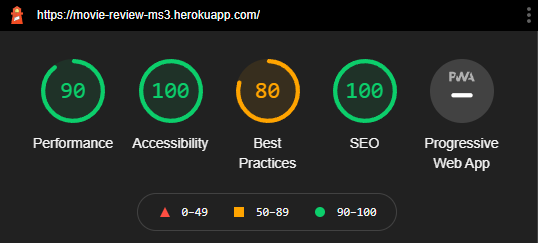
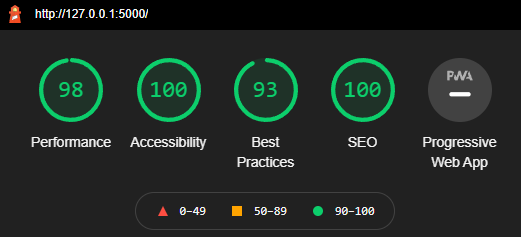
jQuery updated due to vulnerability issues addressed by Lighthouse report.

diff --git a/flixreviews/templates/layout.html b/flixreviews/templates/layout.html
@@ -57,8 +57,8 @@
 		<footer class="page-footer">
 			<div class="text-center text-white py-3"><small>Ben Yates | Code Institute</small></div>
 		</footer>
-		<script src="https://code.jquery.com/jquery-3.3.1.slim.min.js"
-			integrity="sha384-q8i/X+965DzO0rT7abK41JStQIAqVgRVzpbzo5smXKp4YfRvH+8abtTE1Pi6jizo" crossorigin="anonymous"></script>
+		<script src="https://code.jquery.com/jquery-3.6.0.slim.min.js"
+		integrity="sha256-u7e5khyithlIdTpu22PHhENmPcRdFiHRjhAuHcs05RI=" crossorigin="anonymous"></script>
 		<script src="https://cdnjs.cloudflare.com/ajax/libs/popper.js/1.14.7/umd/popper.min.js"
 			integrity="sha384-UO2eT0CpHqdSJQ6hJty5KVphtPhzWj9WO1clHTMGa3JDZwrnQq4sF86dIHNDz0W1" crossorigin="anonymous"></script>
 		<script src="https://stackpath.bootstrapcdn.com/bootstrap/4.3.1/js/bootstrap.min.js"

diff --git a/flixreviews/templates/create_review.html b/flixreviews/templates/create_review.html
@@ -98,6 +98,8 @@
 		</div>
 	</div>
 </div>
-<script src="https://code.jquery.com/jquery-3.3.1.slim.min.js" integrity="sha384-q8i/X+965DzO0rT7abK41JStQIAqVgRVzpbzo5smXKp4YfRvH+8abtTE1Pi6jizo" crossorigin="anonymous"></script>
+<script
+  src="https://code.jquery.com/jquery-3.6.0.slim.min.js"
+  integrity="sha256-u7e5khyithlIdTpu22PHhENmPcRdFiHRjhAuHcs05RI=" crossorigin="anonymous"></script>
 <script src="/static/js/create_review.js"></script>
 {% endblock content %}

diff --git a/README.md b/README.md
@@ -51,12 +51,12 @@
                 <ol type="a">
                     <li>As a First Time Visitor, I want to see which movies people rate highly.</li>
                     <li>As a First Time Visitor, I want to read reviews about movies I have not seen.</li>
-                    <li>As a First Time Visitor, I create an account and submit my own review.</li>
+                    <li>As a First Time Visitor, I want to create an account and submit my own review.</li>
                 </ol>
             <li id="returning-visitor">Returning Visitor Goals</li>
                 <ol type="a">
                     <li>As a Returning Visitor, I want to see if others have reviewed the same movie.</li>
-                    <li>As a Returning Visitor, see which movies people are rating the highest.</li>
+                    <li>As a Returning Visitor, I want to see which movies people are rating the highest.</li>
                 </ol>                       
         </ul>
     <li id="design">Design</li>
@@ -92,9 +92,10 @@
     <li>Responsive on all device sizes.</li>
     <li>Interactivity for users.</li>
     <li>Carousel on loop.</li>
-    <li>Ability to read personal reviews left by registered users.</li>
-    <li>Ability to edit and delete reviews left by you.</li>
-    <li>Ability to edit Profile page details, such as Username, Profile Image, Email Address and Password.</li>
+    <li>Users can create an account and leave their own movie review.
+    <li>Users can edit or delete their own reviews.</li>
+    <li>Ability to read reviews left by other registered users.</li>
+    <li>Ability to edit Profile page details.</li>
 </ul>
 <h2 id="technologies-used">Technologies Used</h2>
 <h3>Languages Used</h3>
@@ -106,7 +107,7 @@
 </ul>
 <h3 id="frameworks">Frameworks, Libraries & Programs Used</h3>
 <ol>
-    <li><a href="https://getbootstrap.com/docs/4.0/getting-started/introduction/">Bootstrap 4</a></li>
+    <li><a href="https://getbootstrap.com/docs/4.3/getting-started/download/">Bootstrap 4</a></li>
         <ul>
             <li>Bootstrap was used to assist with the responsiveness and styling of the website.</li>
         </ul>
@@ -132,7 +133,7 @@
         </ul>
     <li><a href="https://owlcarousel2.github.io/OwlCarousel2/">Owl-Carousel</a></li>
         <ul>
-            <li>Used to create a touch enabled, respsonsive carousel slider.</li>
+            <li>Used to create a touch enabled, responsive carousel slider.</li>
         </ul>
     <li><a href="https://code.visualstudio.com/">VS Code</a></li>
         <ul>
@@ -156,25 +157,24 @@
         </ul>
     <li><a href="https://developer.chrome.com/docs/devtools/">Chrome DevTools</a></li>
         <ul>
-            <li>Absolutely essential tool for debugging code.</li>
+            <li>Essential tools for debugging code.</li>
         </ul>
 </ol>
 <h2 id="testing">Testing</h2>
 <h3 id="code-verification">Code Verification</h3>
-<p>The W3C Markup Validator, W3C CSS Validator and JSHint services were used to validate code to ensure there were no syntax errors in the project.</p>
+<p>The W3C HTML Validator, W3C CSS Validator,JSHint and ExtendsClass services were used to validate code to ensure there were no syntax errors in the project.</p>
 <ul>
-    <li>W3C Markup Validator - <a href="https://github.com/BYates1289/Flask-Movie-Review-Project-MS3/blob/main/flixreviews/static/docs/w3c_html.pdf">Results</a></li>
+    <li>W3C HTML Validator - <a href="https://github.com/BYates1289/Flask-Movie-Review-Project-MS3/blob/main/flixreviews/static/docs/w3c_html.pdf">Results</a></li>
     <li>W3C CSS Validator - <a href="https://github.com/BYates1289/Flask-Movie-Review-Project-MS3/blob/main/flixreviews/static/docs/w3c_css.pdf">Results</a></li>
     <li>JSHint - <a href="https://github.com/BYates1289/Flask-Movie-Review-Project-MS3/blob/main/flixreviews/static/docs/jshint.pdf">Results</a></li>
     <li>Python Validator - <a href="https://github.com/BYates1289/Flask-Movie-Review-Project-MS3/blob/main/flixreviews/static/docs/pythonvalidator.pdf">Results</a></li>
 </ul>
 <h3 id="lighthouse">Lighthouse</h3>
 <p>Performance of the site was analysed by <a href="https://developers.google.com/web/tools/lighthouse">Lighthouse</a>. Here are the results.</p>
-<img src="./assets/img/testing/Lighthouse.JPG">
+<img src="https://github.com/BYates1289/Flask-Movie-Review-Project-MS3/blob/main/flixreviews/static/img/lighthouse.png?raw=true">
 <h3 id="speed-test">Speed Test</h3>
 <p>Site speed test was performed by <a href="https://gtmetrix.com/">GTMetrix</a>. Here are the results.</p>
-<img src="./assets/img/testing/PageLoadTime.JPG">
-<p>Prior to the above, I was informed in a previous test that my images were not optimised and that should compress them. I used <a href="https://tinypng.com/">TinyPNG</a> for this, which resulted in 60% better performance.</p>
+<img src="https://github.com/BYates1289/Flask-Movie-Review-Project-MS3/blob/main/flixreviews/static/img/speedtest.png?raw=true">
 <h3 id="cross-browser">Cross Browser Testing</h3>
 <p>This project was tested with all major browsers and displayed as expected. Results can be seen here.</p>
 <ul>
@@ -218,7 +218,7 @@
                 <ol type="a">
                     <li>Once logged in, the user can check whether anyone else has registered a review on the same movie as them on the Review page.</li>
                 </ol>
-            <li>As a Returning Visitor, see which movies people are rating the highest.</li>
+            <li>As a Returning Visitor, I want to see which movies people are rating the highest.</li>
                 <ol type="a">
                     <li>As part of the carousel, the reviewed score is shown also. The carousel is on a loop so each review left on the site will be shown along with the rating given.</li>
                     <li>Each review will display the reviewers rating. The user can check these out on the Review page.</li> 
@@ -235,18 +235,20 @@
 <ul>
     <li>I would love to implement the <a href="https://www.themoviedb.org/documentation/api">TMDB</a> API so that users can search via the API for their movie review. This would pull the movie posters into the application too.</li>
 </ul>
+<h2 id="bugs">Bugs</h2>
+<p>When building the carousel, I had an <<code>a</code>> as parent to multiple <<code>div</code>>, which worked fine, but failed validation. I did this so that the movie poster and title would be linked to the review. I removed it and stuck with the Read Review button.
 <h2 id="deployment">Deployment</h2>
 <h3 id="heroku">Heroku</h3>
 <p>To deploy this project to Heroku, the following steps were taken...</p>
 <ol>
-    <li>From the VS Code terminal, I created requirements.txt and Procfile using the following commands:</li><br>
+    <li>From the VS Code terminal, I created a requirements.txt and Procfile using the following commands:</li><br>
     <div class="snippet-clipboard-content position-relative"><pre><code>pip3 freeze --local > requirements.txt</pre></code></div>
     <div class="snippet-clipboard-content position-relative"><pre><code>echo web: python run.py > Procfile</pre></code></div>
-    <li>I then committed these files to GitHub</li>
+    <li>I then committed these files to GitHub.</li>
     <li>Next, I logged into my Heroku account and created a new app named "movie-review-ms3".</li>
     <li>I then located the <b>Deploy</b> tab and selected <b>GitHub</b> as the Deployment Method.</li>
-    <li>Once you have authenticated your GitHub account, you can select your repository.</li>
-    <li>Then, head to <b>Settings</b> and click the <b>Reveal Config Vars</b> button.</li>
+    <li>Once I authenticated my GitHub account, I selected my repository.</li>
+    <li>Then, I went to <b>Settings</b> and clicked the <b>Reveal Config Vars</b> button.</li>
     <li>I then entered the following information...</li>
     <table>
         <thead>
@@ -280,7 +282,7 @@
     </table>
     <li>Next, I went back to the <b>Deploy</b> tab and selected <b>Enable Automatic Deploys</b>.</li>
     <li>I then ensured the "main" branch was selected under Manual Deploy, and clicked the <b>Deploy Branch</b> button.</li>
-    <li>Shortly after, you will get a message informing you that your site has been deployed sucessfully.</li>
+    <li>Shortly after, I recieved a message informing me that my site had been deployed sucessfully.</li>
 
 <h3 id="forking-repo">Forking the GitHub Repository</h3>
 <p>By forking the GitHub Repository we make a copy of the original repository on our GitHub account to view and/or make changes without affecting the original repository by using the following steps...</p>
@@ -311,7 +313,7 @@
 <h2 id="credits">Credits</h2>
 <h3 id="code">Code</h3>
 <ul>
-    <li>Bootstrap 4: Bootstrap Library used throughout the project to make site responsive using the Bootstrap Grid System.</li>
+    <li>Bootstrap 4: Bootstrap Library used throughout the project to make site responsive.</li>
     <li>Owl-Carousel for the touch enabled, responsive carousel.</li>
 </ul>
 <h3 id="content">Content</h3>
